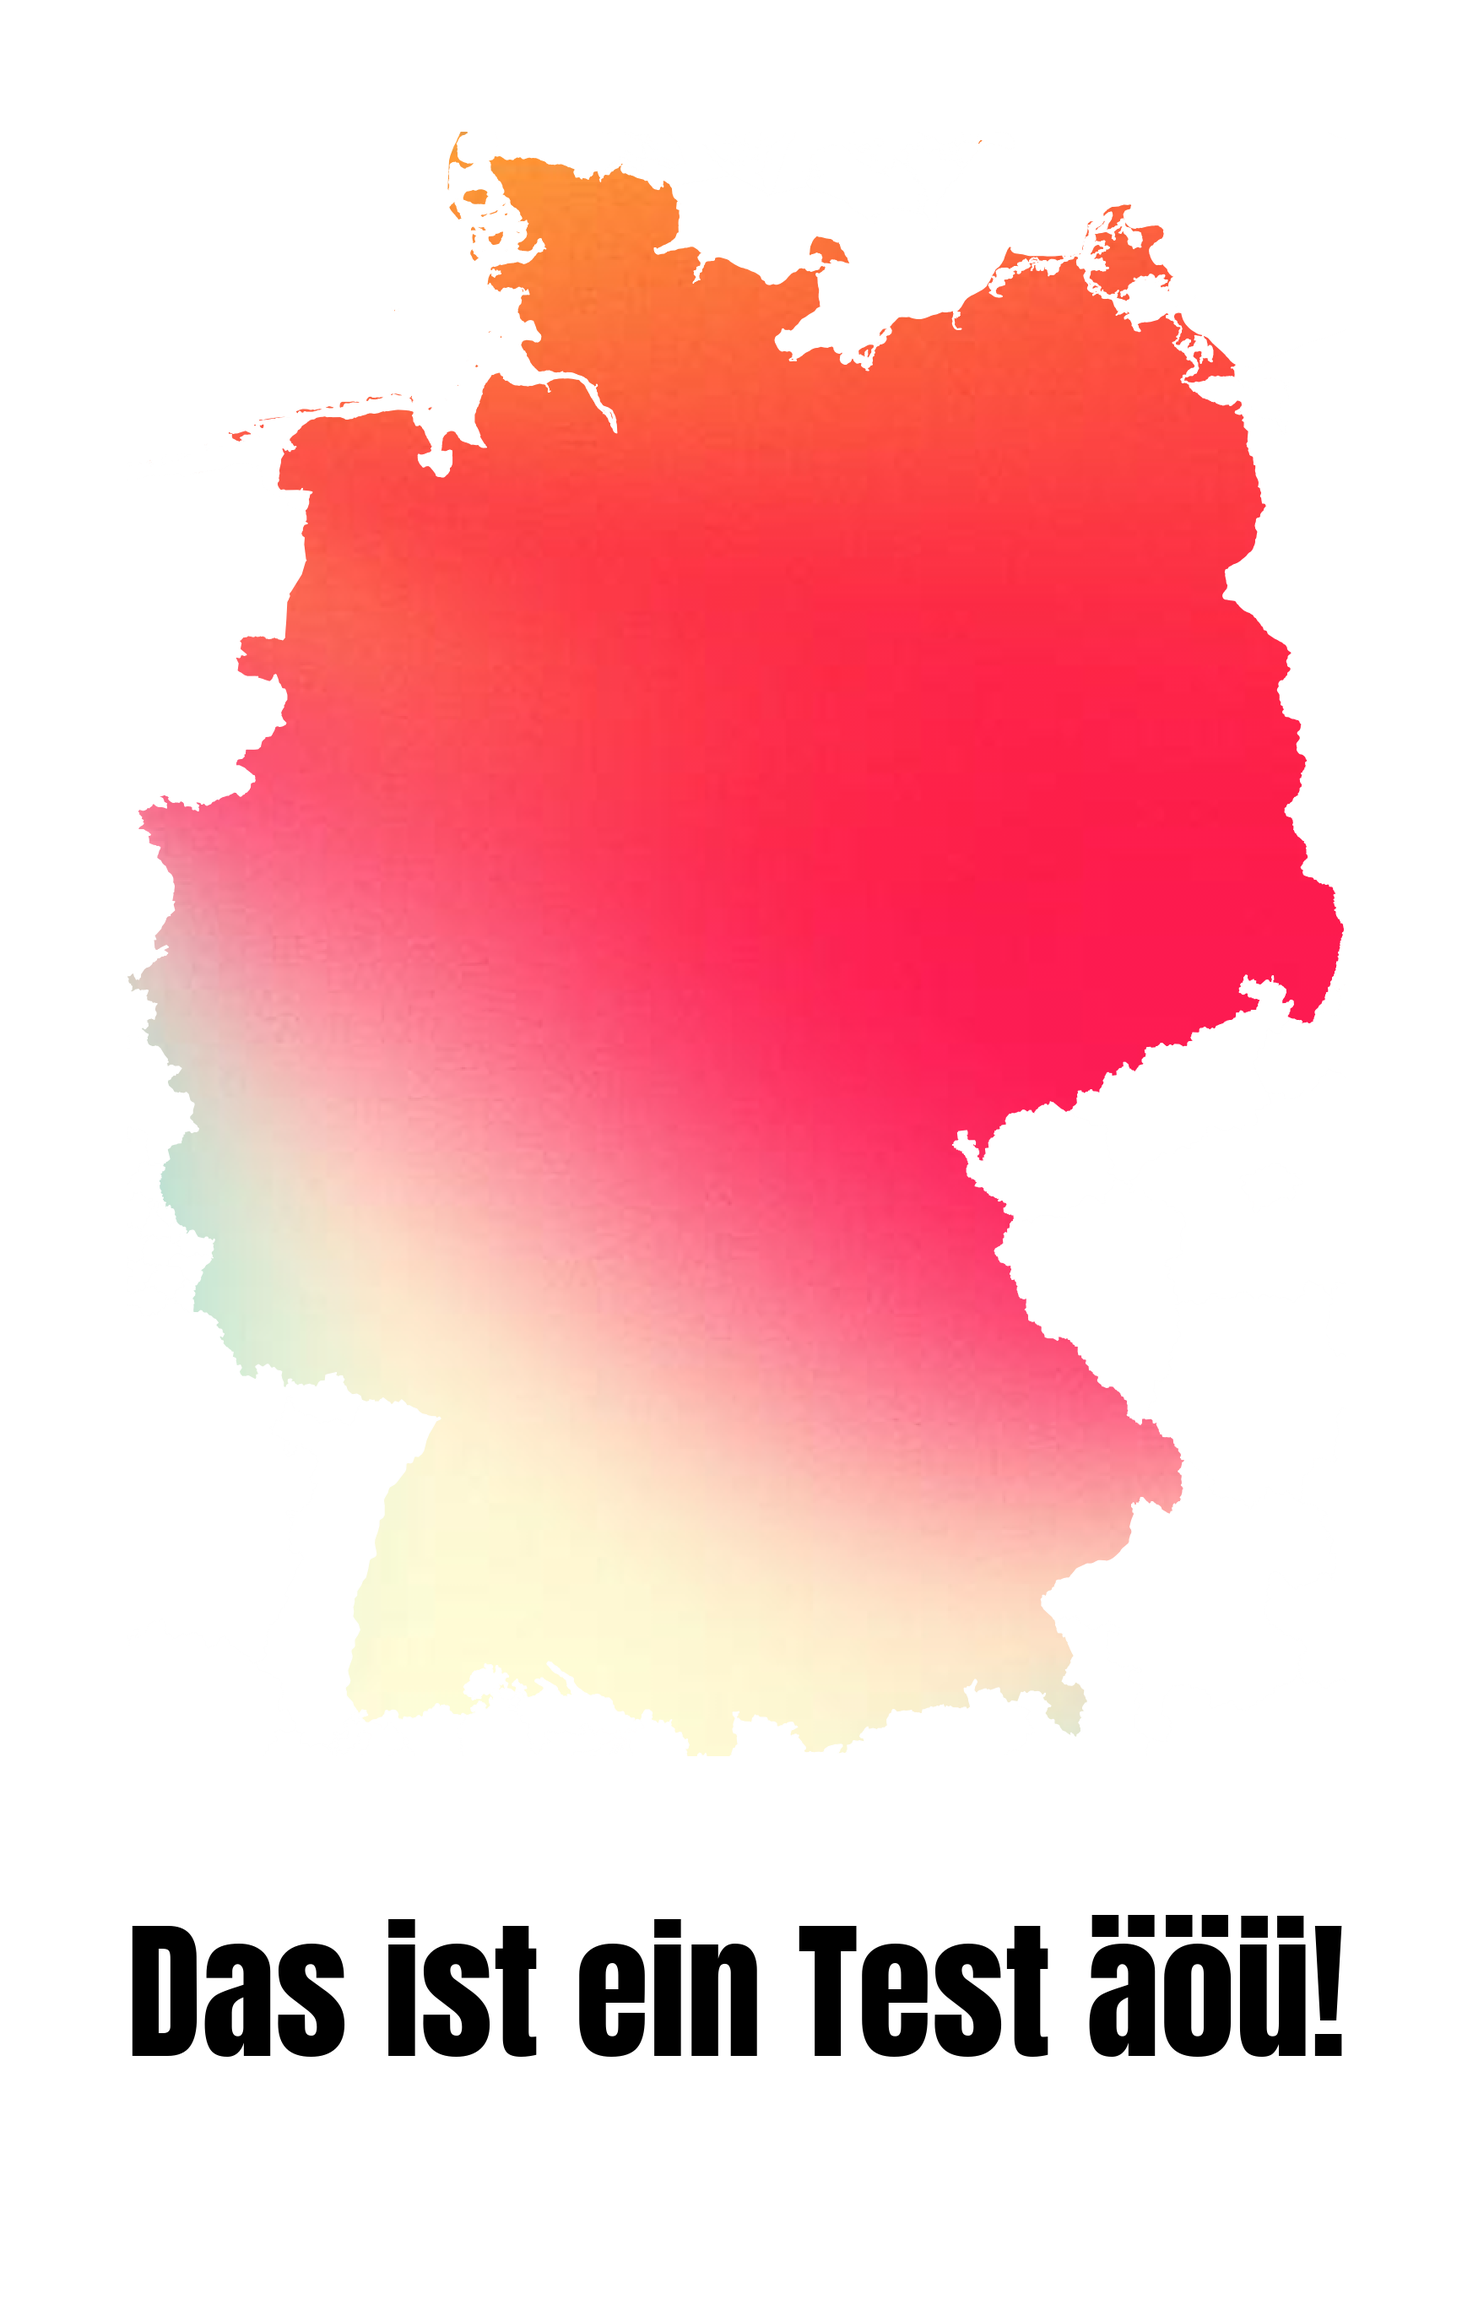
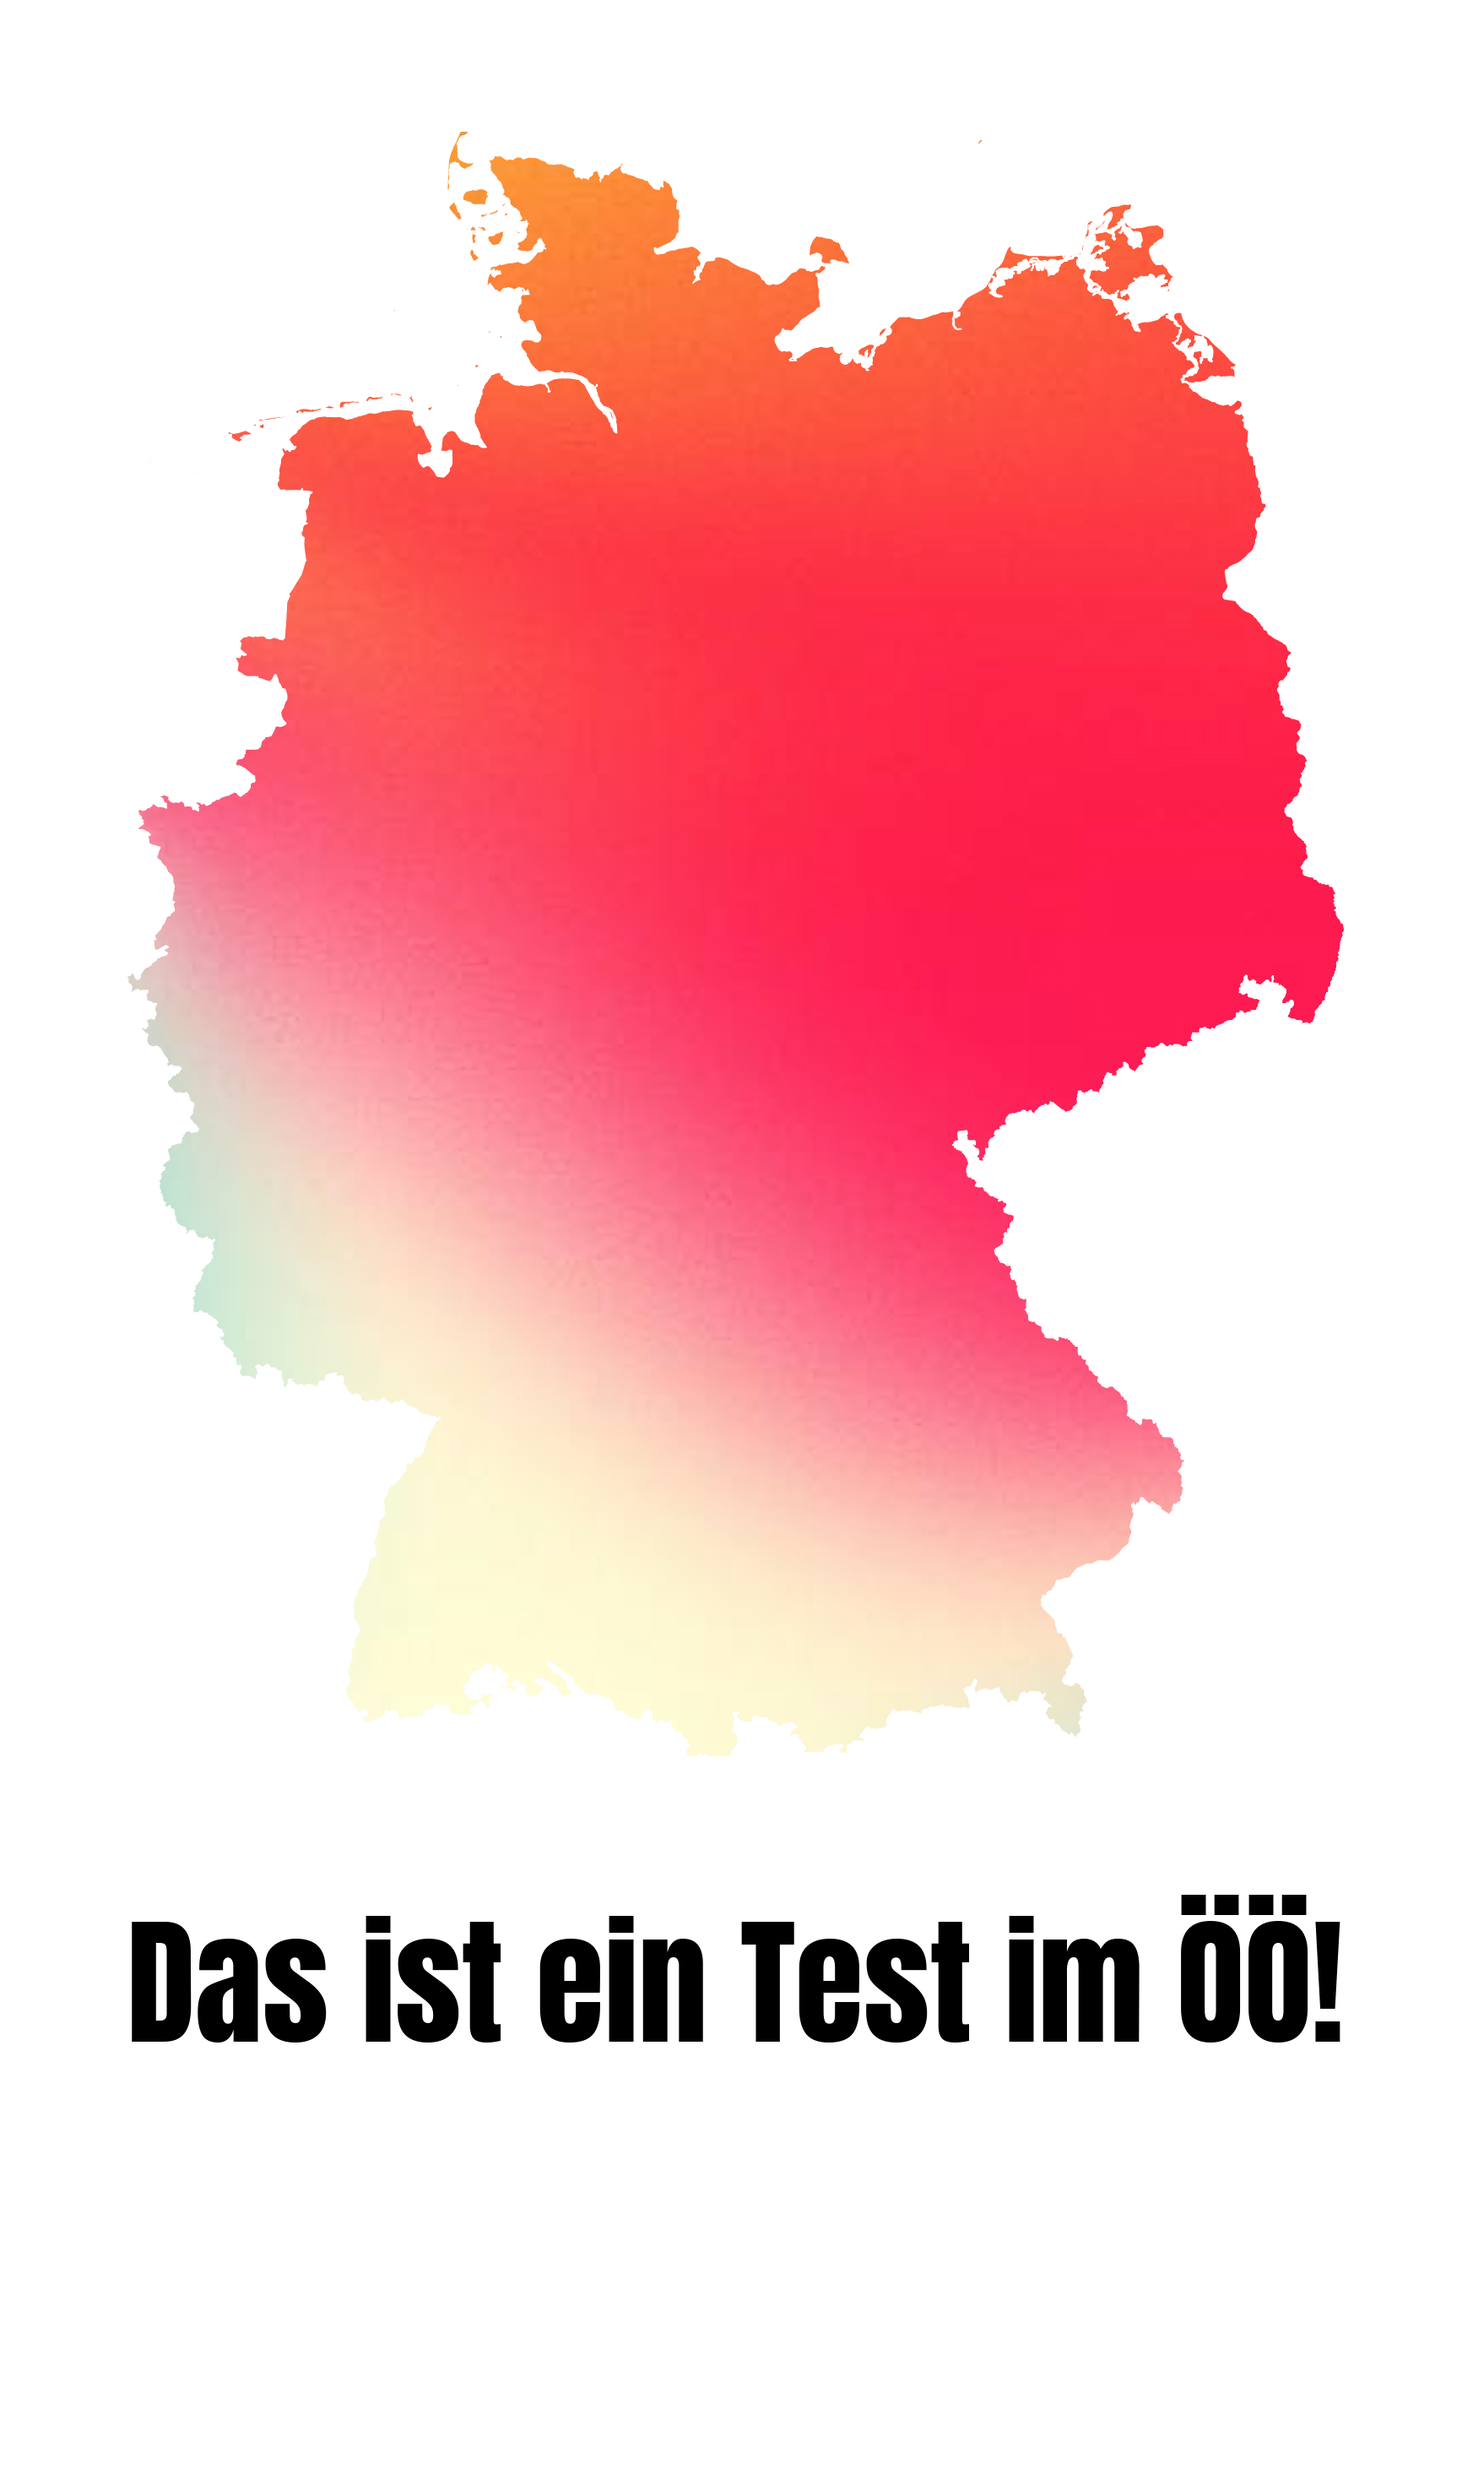
First try pattern 2nd text

Changed region(s): [[0.0619, 0.0623, 0.9284, 0.9029]]

diff --git a/pin_maps/pin_maps.py b/pin_maps/pin_maps.py
@@ -1,18 +1,18 @@
 # Internal modules
-from input_parser.ParamsParser import ParamsParser 
+from input_parser.ParamsParser import ParamsParser
 # Python libraries
 import os
+from copy import deepcopy 
 # External modules
 from PIL import Image
-from PIL import ImageFont
 from PIL import ImageDraw
-
+from PIL import ImageFont
 
 def create_output_dir() -> None:
     working_dir_content = os.listdir(os.getcwd())
     if not 'output' in working_dir_content:
         os.mkdir(os.path.join(os.getcwd(), 'output'))
-   
+
 
 def frame_img(img: Image, added_frame_px: int) -> Image:
     width, height = img.size
@@ -23,33 +23,64 @@ def frame_img(img: Image, added_frame_px: int) -> Image:
     return framed_img
 
 
+def pattern_2nd_text(
+    text: str, 
+    img_width: int, 
+    start_height: int, 
+    font: ImageFont, 
+    font_size: int = 80, 
+    line_dist: int = 10
+):
+    print(text)
+    lines = []
+    starts = []
+    text = text.split(' ')
+
+    while len(text) > 0:
+        # print(text)
+        this_line = deepcopy(text)
+        line_width, line_height = font.getsize(' '.join(this_line))
+        
+        while line_width > img_width:
+            # next_line.insert(0, this_line.pop())
+            this_line.pop()
+            # print(this_line)
+            # print(text)
+            line_width, line_height = font.getsize(' '.join(this_line))
+
+        lines.insert(0, ' '.join(this_line))
+        starts.insert(0, round((img_width - line_width) / 2))
+        
+        for _ in this_line:
+            # print(text)
+            text.pop(0)
+
+    return zip(starts, lines)
+
+
 def main() -> None:
+    height_text_space = 700
+    text = u'Das ist ein Test im ÖÖ!'
+    added_frame_px = 150
+
+    ### DIR, CROPPING & ERWEITERUNG ###
     create_output_dir()
     img = Image.open(os.path.join('output', 'test.png'))
-    print(img)
-    print(img.size)
     (left, right, top, bottom) = (300, 1745, 650, 2580)
     img = img.crop((left, top, right, bottom))
-    print(img.__doc__)
-    print(img.crop.__doc__)
     width_cropped, height_cropped = img.size
-    print(width_cropped, height_cropped)
 
-    dims_new = (width_cropped, height_cropped + 500)
+    dims_new = (width_cropped, height_cropped + height_text_space)
     img_new = Image.new(img.mode, dims_new, (255, ) * 3)
     img_new.paste(img, (0, 0))
-    
     img_new.save(os.path.join(os.getcwd(), 'output', 'edited.png'))
     
-    text = u'Das ist ein Test äöü!'
-
-    font = ImageFont.load_default().font
+    ### WRITING FIRST HEADER ###
     img_new_width, img_new_height = img_new.size
     font_size = 500 # Arbitrary start value
     anton_font = ImageFont.truetype('anton.ttf', font_size)
     font_width, font_height = anton_font.getsize(text) 
     
-    print('Img dims:', img_new_width)
     print(f'Width: {font_width}, Size: {font_size}')
     while font_width > img_new_width:
         print(f'Width: {font_width}, Size: {font_size}')
@@ -57,18 +88,27 @@ def main() -> None:
         anton_font = ImageFont.truetype('anton.ttf', font_size)
         font_width, font_height = anton_font.getsize(text)
 
-
     print('Size Anton:', anton_font.getsize(text))
-    playfair_font = ImageFont.truetype('playfair.ttf', 120)
-    print('playfair size:', playfair_font.getsize(text))
-    
-    added_frame_px = 150
+  
+    # Add text below using the width of the frame that will be added later on.
     draw = ImageDraw.Draw(img_new)
     draw.text((0, height_cropped + added_frame_px), text, 'black', anton_font)
 
+
+    ### WRITING SECOND HEADER ###
+    t = 'Das ist ein sehr langer Text. ' * 3 
+    print(list(pattern_2nd_text(t, img_new_width, 100, anton_font)))
+
+
+    ### FRAMING ###
     framed_img = frame_img(img_new, added_frame_px)
     framed_img.save(os.path.join(os.getcwd(), 'output', 'written.png'))
     
+    # Eigentliche Schritte zum richtigen Einrichten der Bildunterschrift
+    # Ermittle Hauptzeile, packe ganz oben hin, einzeilig, gemacht
+    # Danach Zweitsatz solange aufteilen, bis auf fester Größe in den Rahmen
+    # Platziere die Zeilen so, dass Rand unten und zur Hauptzeile gleich groß
+
     # img_new.save(os.path.join(os.getcwd(), 'output', 'written.png'))
 
 if __name__ == '__main__':
